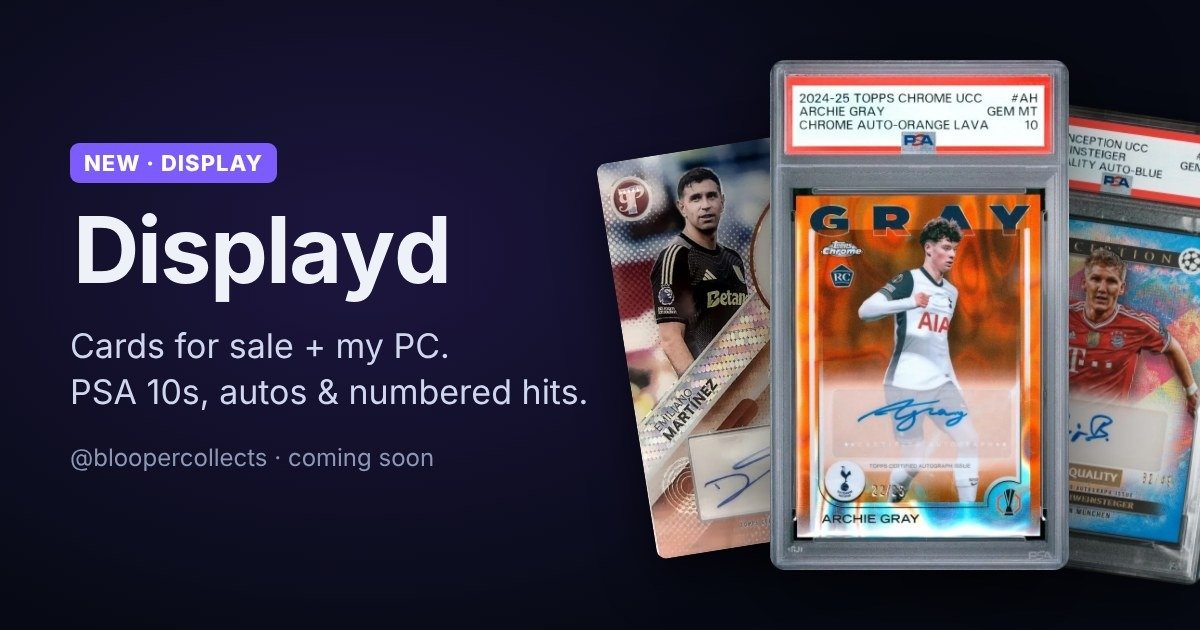
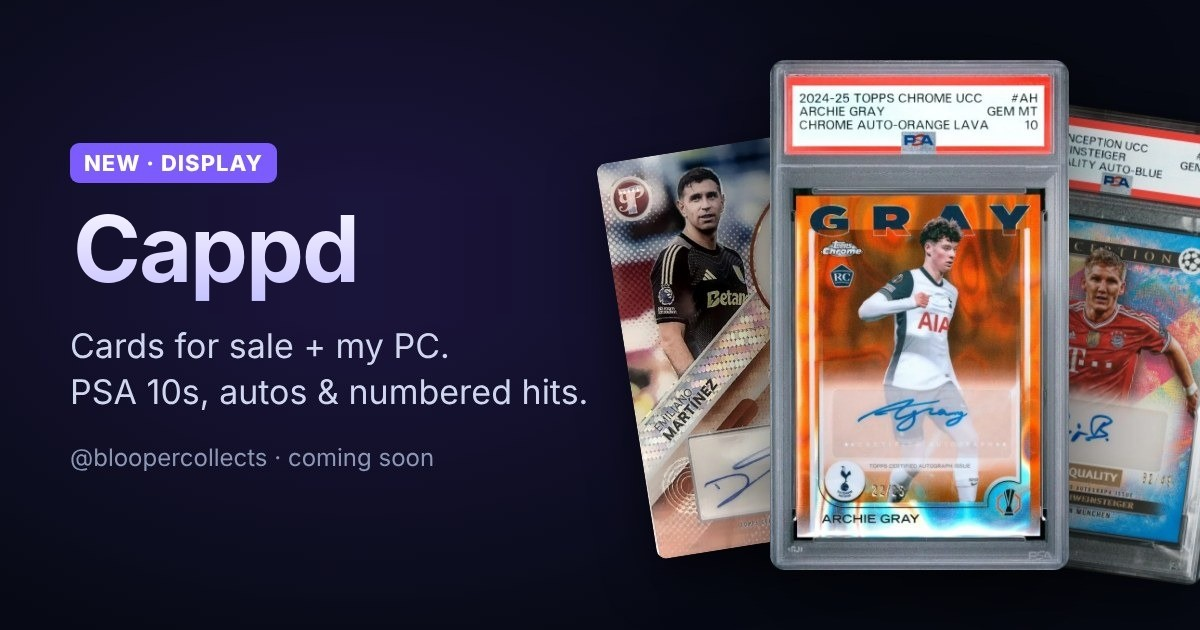
Rename the app to Cappd instead of Displayd
Updates the app header and title, manifest, Display preview copy,
share image (og.jpg?v=5), backup filename, news user agent and bot name.

Claude-Session: https://claude.ai/code/session_01XpW3N7LBjVj3PdNiB2B2FX

Changed region(s): [[0.0617, 0.3317, 0.37, 0.4825]]

diff --git a/display/index.html b/display/index.html
@@ -6,18 +6,18 @@
 <meta name="theme-color" content="#0b1020">
 <meta name="apple-mobile-web-app-capable" content="yes">
 <meta name="apple-mobile-web-app-status-bar-style" content="black-translucent">
-<title>Displayd · My cards</title>
-<meta name="description" content="A first look at Displayd, the card app I'm building: pick your cards and choose what to show in your display carousel.">
+<title>Cappd · My cards</title>
+<meta name="description" content="A first look at Cappd, the card app I'm building: pick your cards and choose what to show in your display carousel.">
 <meta property="og:type" content="website">
-<meta property="og:site_name" content="Displayd">
+<meta property="og:site_name" content="Cappd">
 <meta property="og:url" content="https://belipede.github.io/slabfolio-web/display/">
-<meta property="og:title" content="Displayd · My cards, for sale and PC">
-<meta property="og:description" content="Swipe my cards for sale and my PC. Displayd is coming soon.">
-<meta property="og:image" content="https://belipede.github.io/slabfolio-web/display/og.jpg?v=4">
+<meta property="og:title" content="Cappd · My cards, for sale and PC">
+<meta property="og:description" content="Swipe my cards for sale and my PC. Cappd is coming soon.">
+<meta property="og:image" content="https://belipede.github.io/slabfolio-web/display/og.jpg?v=5">
 <meta property="og:image:width" content="1200">
 <meta property="og:image:height" content="630">
 <meta name="twitter:card" content="summary_large_image">
-<meta name="twitter:image" content="https://belipede.github.io/slabfolio-web/display/og.jpg?v=4">
+<meta name="twitter:image" content="https://belipede.github.io/slabfolio-web/display/og.jpg?v=5">
 <link rel="apple-touch-icon" href="../apple-touch-icon.png">
 <link rel="icon" href="../icon-192.png">
 <style>
@@ -345,7 +345,7 @@ a{color:inherit}
 
     <div class="glance" id="glance"></div>
 
-    <button class="introbar" id="introBtn"><span class="new">NEW</span><span class="t">A first look at Displayd</span><span class="go">How it works ›</span></button>
+    <button class="introbar" id="introBtn"><span class="new">NEW</span><span class="t">A first look at Cappd</span><span class="go">How it works ›</span></button>
 
     <div class="segrow">
       <div class="seg" id="seg"><button data-f="sale">For sale</button><button data-f="pc">PC</button><button data-f="sold">Sold</button></div>
@@ -354,7 +354,7 @@ a{color:inherit}
     <div class="sorts" id="sorts"></div>
 
     <div class="pager" id="pager"></div><div class="feed" id="feed"></div><div class="grid" id="grid"></div><div class="thumbs" id="thumbs"></div><div class="hint" id="hint">Swipe for more cards · tap a card photo to flip it</div>
-    <div class="foot">Prices in SGD. To buy, DM @bloopercollects on Instagram or TikTok. Cards marked "In the post" arrive in December and are seller photos.<br><br>Displayd · preview build</div>
+    <div class="foot">Prices in SGD. To buy, DM @bloopercollects on Instagram or TikTok. Cards marked "In the post" arrive in December and are seller photos.<br><br>Cappd · preview build</div>
   </div>
 
   <!-- LOCKED (IN DEVELOPMENT) VIEW -->
@@ -362,10 +362,10 @@ a{color:inherit}
     <div class="lk-head"><span class="lk-pill">🔒 In development</span><h2 id="lkTitle">Home</h2><p id="lkText"></p></div>
     <div class="prev" id="lkPrev"></div>
     <div class="lockbadge"><svg viewBox="0 0 24 24" fill="none" stroke="currentColor" stroke-width="2.2" stroke-linecap="round" stroke-linejoin="round"><rect x="4" y="11" width="16" height="10" rx="2.5"/><path d="M8 11V7a4 4 0 0 1 8 0v4"/></svg></div>
-    <div class="lk-cta"><h3>Unlocks at launch</h3><p>Only Display is open in this preview. Join the launch list and you'll be first in when Displayd opens.</p>
+    <div class="lk-cta"><h3>Unlocks at launch</h3><p>Only Display is open in this preview. Join the launch list and you'll be first in when Cappd opens.</p>
       <button class="btn" data-wl>Join the launch list</button><button class="btn ghost" data-go="display">Back to Display</button></div>
     <div class="lk-feats" id="lkFeats"></div>
-    <div class="foot" style="margin-top:18px">Preview with sample numbers. Displayd · preview build</div>
+    <div class="foot" style="margin-top:18px">Preview with sample numbers. Cappd · preview build</div>
   </div>
 
   <!-- TAB BAR -->
@@ -406,7 +406,7 @@ a{color:inherit}
     <div class="grab"></div>
     <div class="sh-head"><span style="width:44px"></span><h3>What is Display?</h3><button class="nav-btn" id="abClose" style="font-weight:700">Close</button></div>
     <div class="sh-body">
-      <p><b>Displayd</b> is the card tracking app I'm building. It turns your collection into a page you can share with one link.</p>
+      <p><b>Cappd</b> is the card tracking app I'm building. It turns your collection into a page you can share with one link.</p>
       <ul>
         <li><i>🃏</i><span><b>Pick your cards.</b> Split them into For sale, PC and Sold.</span></li>
         <li><i>👁</i><span><b>Choose what shows.</b> Prices, descriptions and grading notes are yours to switch on or off. Tap <b>Edit</b> to try it.</span></li>
@@ -414,21 +414,21 @@ a{color:inherit}
         <li><i>🔗</i><span><b>Share any card.</b> Every card has its own link.</span></li>
       </ul>
       <div class="dm"><button class="btn" data-wl>Notify me at launch</button><a class="btn ghost" href="https://www.tiktok.com/@bloopercollects">Follow on TikTok</a></div>
-      <div class="note">Displayd isn't out yet. This page is a live preview using my own cards.</div>
+      <div class="note">Cappd isn't out yet. This page is a live preview using my own cards.</div>
     </div>
   </div>
   <div class="sheet" id="wl">
     <div class="grab"></div>
-    <div class="sh-head"><span style="width:44px"></span><h3>Get Displayd first</h3><button class="nav-btn" id="wlClose" style="font-weight:700">Close</button></div>
+    <div class="sh-head"><span style="width:44px"></span><h3>Get Cappd first</h3><button class="nav-btn" id="wlClose" style="font-weight:700">Close</button></div>
     <div class="sh-body">
       <div id="wlForm">
         <div class="wl-hero"><div class="ic">🔔</div><div><b>Be first in when it launches</b><small>One message on launch day, plus early access. No spam.</small></div></div>
         <label class="field"><span>Email or TikTok / IG handle</span><input id="wlIn" type="text" autocomplete="email" autocapitalize="off" spellcheck="false" placeholder="you@email.com or @yourhandle" maxlength="120"></label>
         <div class="field"><span>I mostly… (optional)</span><div class="picks" id="wlPick"><button data-v="Collect">Collect</button><button data-v="Flip">Flip</button><button data-v="Both">Both</button><button data-v="Just looking">Just looking</button></div></div>
         <div class="dm"><button class="btn" id="wlGo">Notify me</button></div>
-        <div class="note">Only used to tell you when Displayd launches. Never shared.</div>
+        <div class="note">Only used to tell you when Cappd launches. Never shared.</div>
       </div>
-      <div id="wlDone" class="wl-done" style="display:none"><div class="tick">✓</div><h4>You're on the list</h4><p>I'll message you the day Displayd launches. Follow along in the meantime.</p><a class="btn" href="https://www.tiktok.com/@bloopercollects">Follow on TikTok</a></div>
+      <div id="wlDone" class="wl-done" style="display:none"><div class="tick">✓</div><h4>You're on the list</h4><p>I'll message you the day Cappd launches. Follow along in the meantime.</p><a class="btn" href="https://www.tiktok.com/@bloopercollects">Follow on TikTok</a></div>
     </div>
   </div>
   <div class="bbar" id="bbar"><div class="bt" id="bbT"></div><button class="clr" id="bbClr">Clear</button><button class="btn" id="bbGo">Message</button></div>
@@ -560,7 +560,7 @@ $('#grid').addEventListener('click',e=>{const b=e.target.closest('[data-open]');
 /* share */
 const BASE=location.origin+location.pathname;
 async function share(id){const c=id&&CARDS.find(x=>x.id===id);const url=c?BASE+'?c='+id:BASE;
-  const d={title:c?c.name+' · Displayd':'Displayd · My cards',text:c?`${c.name}, ${shortSet(c)}${c.mode==='sale'&&c.ask?' · '+money(c.ask):''}`:'My cards on Displayd',url};
+  const d={title:c?c.name+' · Cappd':'Cappd · My cards',text:c?`${c.name}, ${shortSet(c)}${c.mode==='sale'&&c.ask?' · '+money(c.ask):''}`:'My cards on Cappd',url};
   if(navigator.share){try{await navigator.share(d);}catch(e){}return;}
   try{await navigator.clipboard.writeText(url);toast('Link copied');}catch(e){toast(url);}}
 $('#shareAll').onclick=()=>share();
@@ -622,10 +622,10 @@ let tt;function toast(m){const t=$('#toast');t.textContent=m;t.classList.add('on
 /* buy / offer */
 let buyC=null,buyK='buy';
 function buyMsg(){if(buyK==='bundle'){const l=bunList(),v=parseFloat($('#offerIn').value),t=bunTotal();
-    return `Hi! I'd like to bundle these from your Displayd page:\n`+l.map(c=>`• ${c.name} ${shortSet(c)}${c.ask?' ('+money(c.ask)+')':''}`).join('\n')+`\n`+(v>0?`Would you take ${money(v)} for the lot?`:(t?`Asking total ${money(t)}. `:'')+`Is everything still available?`);}
+    return `Hi! I'd like to bundle these from your Cappd page:\n`+l.map(c=>`• ${c.name} ${shortSet(c)}${c.ask?' ('+money(c.ask)+')':''}`).join('\n')+`\n`+(v>0?`Would you take ${money(v)} for the lot?`:(t?`Asking total ${money(t)}. `:'')+`Is everything still available?`);}
   const c=buyC;const name=`${c.name} ${c.set.split(' · ')[1]||c.set}`;
-  if(buyK==='buy')return `Hi! I'd like to buy your ${name} for ${money(c.ask)}. Seen on your Displayd page. Is it still available?`;
-  const v=parseFloat($('#offerIn').value);return `Hi! I saw your ${name} on your Displayd page. Would you take ${v>0?money(v):'S$__'} for it?`;}
+  if(buyK==='buy')return `Hi! I'd like to buy your ${name} for ${money(c.ask)}. Seen on your Cappd page. Is it still available?`;
+  const v=parseFloat($('#offerIn').value);return `Hi! I saw your ${name} on your Cappd page. Would you take ${v>0?money(v):'S$__'} for it?`;}
 function openBuy(id,k){buyK=k;if(k==='bundle'){const l=bunList();if(!l.length)return;buyC=l[0];$('#byTitle').textContent='Bundle';$('#byImg').src='img/'+buyC.photos[0]+'.webp';
     $('#byName').innerHTML=`${l.length} card${l.length>1?'s':''}<small>${bunTotal()?'Asking '+money(bunTotal())+' in total':'Make an offer'}</small>`;$('#offerIn').placeholder='Offer for the lot (optional)';}
   else{buyC=CARDS.find(c=>c.id===id);$('#byTitle').textContent=k==='buy'?'Buy':'Make an offer';$('#offerIn').placeholder='Your offer';

diff --git a/index.html b/index.html
@@ -6,9 +6,9 @@
 <meta name="apple-mobile-web-app-capable" content="yes">
 <meta name="apple-mobile-web-app-status-bar-style" content="black-translucent">
 <meta name="theme-color" content="#0b1020">
-<title>Displayd</title>
+<title>Cappd</title>
 <meta name="mobile-web-app-capable" content="yes">
-<meta name="apple-mobile-web-app-title" content="Displayd">
+<meta name="apple-mobile-web-app-title" content="Cappd">
 <link rel="apple-touch-icon" href="apple-touch-icon.png">
 <link rel="icon" type="image/png" href="icon-192.png">
 <link rel="manifest" href="manifest.webmanifest">
@@ -465,7 +465,7 @@ function shareUrl(r){
   const body = `**${c[1]}** · ${r.par} ${num}\n${short(s.name)} · ${g.n} · ${cardNo(g, c[0])}\n\n` +
     (r.link ? `Proof link: ${r.link}\n\n` : '') + (r.note ? `> ${r.note}\n\n` : '') +
     `### Photos\n${proof}\n\n_Drag your photos into this box, then tap Submit. A moderator adds the **verified** label once the proof checks out._\n\n` +
-    `<!-- slabfolio-find\n${JSON.stringify(data)}\n-->\n<sub>Shared from Displayd ${APP_VERSION}. Please leave the hidden block above as it is.</sub>`;
+    `<!-- slabfolio-find\n${JSON.stringify(data)}\n-->\n<sub>Shared from Cappd ${APP_VERSION}. Please leave the hidden block above as it is.</sub>`;
   return `https://github.com/${REPO}/issues/new?title=${encodeURIComponent(`Find: ${c[1]} ${r.par} ${num} (${short(s.name)})`)}&body=${encodeURIComponent(body)}`;
 }
 function badge(r){ return r.status === 'verified' ? `<span class="badge b-v">VERIFIED${r.auto ? ' · CERT' : ''}</span>` : r.status === 'pending' ? '<span class="badge b-p">PENDING</span>' : r.status === 'seen' ? '<span class="badge b-o">SEEN ON EBAY</span>' : `<span class="badge b-r">${r.fake ? 'FAKE' : 'REJECTED'}</span>`; }
@@ -565,7 +565,7 @@ function renderNews(){
     `<div class="sub" style="margin:16px 0 6px">Notable listings in your tracked sets</div>` + seenReports().map(itemHtml).join('');
   }
   const src = (NEWS.sources || []).join(', ');
-  return h + `<p class="sub">Headlines link to the publisher; Displayd never copies the article. Updated ${ago(NEWS.pulled) || esc(NEWS.pulled)}${src ? ' from ' + esc(src) : ''}. Refreshed every 6 hours.</p>`;
+  return h + `<p class="sub">Headlines link to the publisher; Cappd never copies the article. Updated ${ago(NEWS.pulled) || esc(NEWS.pulled)}${src ? ' from ' + esc(src) : ''}. Refreshed every 6 hours.</p>`;
 }
 function bindNews(a){
   a.querySelectorAll('[data-news]').forEach(el => el.onclick = () => { view.news = el.dataset.news; render(); });
@@ -722,7 +722,7 @@ function renderDash(){
   const news = forYou().slice(0, 3);
   const tb = Object.values(t.tones).reduce((a, b) => a + b, 0) || 1;
   const row = (c, right) => `<div class="crow" data-c="${esc(c.id)}"><div class="l"><div class="pl">${esc(c.player)}</div><div class="ds">${esc(cardLine(c))}</div></div><div class="r">${right}</div></div>`;
-  return `<header class="top"><h1>Displayd</h1><button class="mini" data-act="bug">Report a bug</button></header>
+  return `<header class="top"><h1>Cappd</h1><button class="mini" data-act="bug">Report a bug</button></header>
   ${S.sampleCards ? `<div class="banner">You're looking at a <b>sample collection</b> with made-up prices. Import your Cards v2 sheet from <b>Me</b> to see your own.</div>` : ''}
   <div class="prof"><div class="sub">Collection value</div><div class="big">${sgd(t.value)}</div>
   <div class="sub">${t.n} cards you own · paid ${sgd(t.paid)} · <span class="${diff > 5 ? 'g' : diff < -5 ? 'rd' : 'o'}">${diff >= 0 ? '+' : ''}${sgd(diff)}</span></div>
@@ -802,7 +802,7 @@ function openC(id, mode){
     <label class="f">Status</label><select class="inp" name="status">${['Held', 'PC', 'To list', 'Listed', 'Sealed', 'Sold'].map(s => `<option ${s === c.status ? 'selected' : ''}>${s}</option>`).join('')}</select>
     <label class="f">Grading</label><select class="inp" name="stage">${['Raw', 'To be graded', 'At grader', 'Graded'].map(s => `<option ${(c.stage || 'Raw').startsWith(s) ? 'selected' : ''}>${s}</option>`).join('')}</select><button class="btn">Save</button></form>`;
   else if (mode === 'caro') { const txt = `${c.player} ${c.desc}${c.serial ? ' ' + c.serial : ''}${c.grade && c.grade !== 'Raw' ? ' ' + c.grade : ''}\n${money(c.ask) !== null ? 'S$' + money(c.ask) + ' ' : ''}(price negotiable)\nCondition: as pictured. Card sleeved and toploaded.\nMeet-up or mailing available.`;
-    h += `<label class="f">Carousell listing text</label><textarea class="inp" id="caro" style="min-height:120px">${esc(txt)}</textarea><button class="btn" data-copy>Copy text</button><div class="hint">Paste it into Carousell with your photos. Displayd never posts for you.</div>`; }
+    h += `<label class="f">Carousell listing text</label><textarea class="inp" id="caro" style="min-height:120px">${esc(txt)}</textarea><button class="btn" data-copy>Copy text</button><div class="hint">Paste it into Carousell with your photos. Cappd never posts for you.</div>`; }
   else {
     h += owned(c) ? `<div class="btns"><button class="btn ghost" data-mode="sale">Add a sale you saw</button><button class="btn ghost" data-mode="sold">Mark sold</button></div>
     <div class="btns"><button class="btn ghost" data-mode="edit" style="margin-top:8px">Edit</button><button class="btn ghost" data-mode="caro" style="margin-top:8px">Sell on Carousell</button></div>` : `<button class="btn ghost" data-mode="edit">Edit</button>`;
@@ -909,7 +909,7 @@ function renderMe(){
   <div class="switch"><span>Moderator mode<br><span class="sub">Lets you verify reports on this phone. Shared finds are verified with labels on GitHub.</span></span><button class="tog ${S.mod ? 'on' : ''}" id="mod"></button></div>
   <div class="switch"><span>Sample pull reports<br><span class="sub">Fills the registry with marked sample data</span></span><button class="pill" id="sample">${S.sampleLoaded ? 'Remove' : 'Load'}</button></div>
   <div class="switch"><span>Start over<br><span class="sub">Deletes everything in this app. Export first.</span></span><button class="pill" id="clear">Delete</button></div></div>
-  <p class="sub">Displayd test build ${APP_VERSION}. Checklists from collectosk.com and cardsmithsbreaks.com. Not affiliated with Topps, Panini or the leagues. Values are estimates, not financial advice.</p>`;
+  <p class="sub">Cappd test build ${APP_VERSION}. Checklists from collectosk.com and cardsmithsbreaks.com. Not affiliated with Topps, Panini or the leagues. Values are estimates, not financial advice.</p>`;
 }
 
 // ---------- grading calculator ----------
@@ -953,8 +953,8 @@ function bindApp(a){
   const ex = $('#exp'); if (ex) ex.onclick = () => { view.exp = !view.exp; view.rest = false; render(); };
   const rs = $('#restore'); if (rs) rs.onclick = () => { view.rest = !view.rest; view.exp = false; render(); };
   const ce = $('#copyexp'); if (ce) ce.onclick = async () => { const ta = $('#expt'); try { await navigator.clipboard.writeText(ta.value); toast('Copied. Paste it somewhere safe, like Notes.'); } catch (e) { ta.select(); toast('Select all the text and copy it'); } };
-  const se = $('#saveexp'); if (se) se.onclick = () => { const b = new Blob([JSON.stringify(S)], { type: 'application/json' }), u = URL.createObjectURL(b), l = document.createElement('a'); l.href = u; l.download = `displayd-backup-${new Date().toISOString().slice(0, 10)}.json`; l.click(); setTimeout(() => URL.revokeObjectURL(u), 1000); };
-  const rg = $('#restgo'); if (rg) rg.onclick = () => { try { const d = JSON.parse($('#restt').value); if (!Array.isArray(d.cards) || !Array.isArray(d.reports)) throw 0; S = d; S.comps = S.comps || {}; S.invAdded = S.invAdded || {}; view.rest = false; save(); render(); toast('Backup restored'); } catch (e) { toast('That is not a Displayd export'); } };
+  const se = $('#saveexp'); if (se) se.onclick = () => { const b = new Blob([JSON.stringify(S)], { type: 'application/json' }), u = URL.createObjectURL(b), l = document.createElement('a'); l.href = u; l.download = `cappd-backup-${new Date().toISOString().slice(0, 10)}.json`; l.click(); setTimeout(() => URL.revokeObjectURL(u), 1000); };
+  const rg = $('#restgo'); if (rg) rg.onclick = () => { try { const d = JSON.parse($('#restt').value); if (!Array.isArray(d.cards) || !Array.isArray(d.reports)) throw 0; S = d; S.comps = S.comps || {}; S.invAdded = S.invAdded || {}; view.rest = false; save(); render(); toast('Backup restored'); } catch (e) { toast('That is not a Cappd export'); } };
   const cl = $('#clear'); if (cl) cl.onclick = () => { if (cl.dataset.armed){ localStorage.removeItem(KEY); location.hash = ''; location.reload(); } else { cl.dataset.armed = 1; cl.textContent = 'Tap again'; } };
 }
 

diff --git a/src/app.js b/src/app.js
@@ -318,7 +318,7 @@ function shareUrl(r){
   const body = `**${c[1]}** · ${r.par} ${num}\n${short(s.name)} · ${g.n} · ${cardNo(g, c[0])}\n\n` +
     (r.link ? `Proof link: ${r.link}\n\n` : '') + (r.note ? `> ${r.note}\n\n` : '') +
     `### Photos\n${proof}\n\n_Drag your photos into this box, then tap Submit. A moderator adds the **verified** label once the proof checks out._\n\n` +
-    `<!-- slabfolio-find\n${JSON.stringify(data)}\n-->\n<sub>Shared from Displayd ${APP_VERSION}. Please leave the hidden block above as it is.</sub>`;
+    `<!-- slabfolio-find\n${JSON.stringify(data)}\n-->\n<sub>Shared from Cappd ${APP_VERSION}. Please leave the hidden block above as it is.</sub>`;
   return `https://github.com/${REPO}/issues/new?title=${encodeURIComponent(`Find: ${c[1]} ${r.par} ${num} (${short(s.name)})`)}&body=${encodeURIComponent(body)}`;
 }
 function badge(r){ return r.status === 'verified' ? `<span class="badge b-v">VERIFIED${r.auto ? ' · CERT' : ''}</span>` : r.status === 'pending' ? '<span class="badge b-p">PENDING</span>' : r.status === 'seen' ? '<span class="badge b-o">SEEN ON EBAY</span>' : `<span class="badge b-r">${r.fake ? 'FAKE' : 'REJECTED'}</span>`; }
@@ -418,7 +418,7 @@ function renderNews(){
     `<div class="sub" style="margin:16px 0 6px">Notable listings in your tracked sets</div>` + seenReports().map(itemHtml).join('');
   }
   const src = (NEWS.sources || []).join(', ');
-  return h + `<p class="sub">Headlines link to the publisher; Displayd never copies the article. Updated ${ago(NEWS.pulled) || esc(NEWS.pulled)}${src ? ' from ' + esc(src) : ''}. Refreshed every 6 hours.</p>`;
+  return h + `<p class="sub">Headlines link to the publisher; Cappd never copies the article. Updated ${ago(NEWS.pulled) || esc(NEWS.pulled)}${src ? ' from ' + esc(src) : ''}. Refreshed every 6 hours.</p>`;
 }
 function bindNews(a){
   a.querySelectorAll('[data-news]').forEach(el => el.onclick = () => { view.news = el.dataset.news; render(); });
@@ -575,7 +575,7 @@ function renderDash(){
   const news = forYou().slice(0, 3);
   const tb = Object.values(t.tones).reduce((a, b) => a + b, 0) || 1;
   const row = (c, right) => `<div class="crow" data-c="${esc(c.id)}"><div class="l"><div class="pl">${esc(c.player)}</div><div class="ds">${esc(cardLine(c))}</div></div><div class="r">${right}</div></div>`;
-  return `<header class="top"><h1>Displayd</h1><button class="mini" data-act="bug">Report a bug</button></header>
+  return `<header class="top"><h1>Cappd</h1><button class="mini" data-act="bug">Report a bug</button></header>
   ${S.sampleCards ? `<div class="banner">You're looking at a <b>sample collection</b> with made-up prices. Import your Cards v2 sheet from <b>Me</b> to see your own.</div>` : ''}
   <div class="prof"><div class="sub">Collection value</div><div class="big">${sgd(t.value)}</div>
   <div class="sub">${t.n} cards you own · paid ${sgd(t.paid)} · <span class="${diff > 5 ? 'g' : diff < -5 ? 'rd' : 'o'}">${diff >= 0 ? '+' : ''}${sgd(diff)}</span></div>
@@ -655,7 +655,7 @@ function openC(id, mode){
     <label class="f">Status</label><select class="inp" name="status">${['Held', 'PC', 'To list', 'Listed', 'Sealed', 'Sold'].map(s => `<option ${s === c.status ? 'selected' : ''}>${s}</option>`).join('')}</select>
     <label class="f">Grading</label><select class="inp" name="stage">${['Raw', 'To be graded', 'At grader', 'Graded'].map(s => `<option ${(c.stage || 'Raw').startsWith(s) ? 'selected' : ''}>${s}</option>`).join('')}</select><button class="btn">Save</button></form>`;
   else if (mode === 'caro') { const txt = `${c.player} ${c.desc}${c.serial ? ' ' + c.serial : ''}${c.grade && c.grade !== 'Raw' ? ' ' + c.grade : ''}\n${money(c.ask) !== null ? 'S$' + money(c.ask) + ' ' : ''}(price negotiable)\nCondition: as pictured. Card sleeved and toploaded.\nMeet-up or mailing available.`;
-    h += `<label class="f">Carousell listing text</label><textarea class="inp" id="caro" style="min-height:120px">${esc(txt)}</textarea><button class="btn" data-copy>Copy text</button><div class="hint">Paste it into Carousell with your photos. Displayd never posts for you.</div>`; }
+    h += `<label class="f">Carousell listing text</label><textarea class="inp" id="caro" style="min-height:120px">${esc(txt)}</textarea><button class="btn" data-copy>Copy text</button><div class="hint">Paste it into Carousell with your photos. Cappd never posts for you.</div>`; }
   else {
     h += owned(c) ? `<div class="btns"><button class="btn ghost" data-mode="sale">Add a sale you saw</button><button class="btn ghost" data-mode="sold">Mark sold</button></div>
     <div class="btns"><button class="btn ghost" data-mode="edit" style="margin-top:8px">Edit</button><button class="btn ghost" data-mode="caro" style="margin-top:8px">Sell on Carousell</button></div>` : `<button class="btn ghost" data-mode="edit">Edit</button>`;
@@ -762,7 +762,7 @@ function renderMe(){
   <div class="switch"><span>Moderator mode<br><span class="sub">Lets you verify reports on this phone. Shared finds are verified with labels on GitHub.</span></span><button class="tog ${S.mod ? 'on' : ''}" id="mod"></button></div>
   <div class="switch"><span>Sample pull reports<br><span class="sub">Fills the registry with marked sample data</span></span><button class="pill" id="sample">${S.sampleLoaded ? 'Remove' : 'Load'}</button></div>
   <div class="switch"><span>Start over<br><span class="sub">Deletes everything in this app. Export first.</span></span><button class="pill" id="clear">Delete</button></div></div>
-  <p class="sub">Displayd test build ${APP_VERSION}. Checklists from collectosk.com and cardsmithsbreaks.com. Not affiliated with Topps, Panini or the leagues. Values are estimates, not financial advice.</p>`;
+  <p class="sub">Cappd test build ${APP_VERSION}. Checklists from collectosk.com and cardsmithsbreaks.com. Not affiliated with Topps, Panini or the leagues. Values are estimates, not financial advice.</p>`;
 }
 
 // ---------- grading calculator ----------
@@ -806,8 +806,8 @@ function bindApp(a){
   const ex = $('#exp'); if (ex) ex.onclick = () => { view.exp = !view.exp; view.rest = false; render(); };
   const rs = $('#restore'); if (rs) rs.onclick = () => { view.rest = !view.rest; view.exp = false; render(); };
   const ce = $('#copyexp'); if (ce) ce.onclick = async () => { const ta = $('#expt'); try { await navigator.clipboard.writeText(ta.value); toast('Copied. Paste it somewhere safe, like Notes.'); } catch (e) { ta.select(); toast('Select all the text and copy it'); } };
-  const se = $('#saveexp'); if (se) se.onclick = () => { const b = new Blob([JSON.stringify(S)], { type: 'application/json' }), u = URL.createObjectURL(b), l = document.createElement('a'); l.href = u; l.download = `displayd-backup-${new Date().toISOString().slice(0, 10)}.json`; l.click(); setTimeout(() => URL.revokeObjectURL(u), 1000); };
-  const rg = $('#restgo'); if (rg) rg.onclick = () => { try { const d = JSON.parse($('#restt').value); if (!Array.isArray(d.cards) || !Array.isArray(d.reports)) throw 0; S = d; S.comps = S.comps || {}; S.invAdded = S.invAdded || {}; view.rest = false; save(); render(); toast('Backup restored'); } catch (e) { toast('That is not a Displayd export'); } };
+  const se = $('#saveexp'); if (se) se.onclick = () => { const b = new Blob([JSON.stringify(S)], { type: 'application/json' }), u = URL.createObjectURL(b), l = document.createElement('a'); l.href = u; l.download = `cappd-backup-${new Date().toISOString().slice(0, 10)}.json`; l.click(); setTimeout(() => URL.revokeObjectURL(u), 1000); };
+  const rg = $('#restgo'); if (rg) rg.onclick = () => { try { const d = JSON.parse($('#restt').value); if (!Array.isArray(d.cards) || !Array.isArray(d.reports)) throw 0; S = d; S.comps = S.comps || {}; S.invAdded = S.invAdded || {}; view.rest = false; save(); render(); toast('Backup restored'); } catch (e) { toast('That is not a Cappd export'); } };
   const cl = $('#clear'); if (cl) cl.onclick = () => { if (cl.dataset.armed){ localStorage.removeItem(KEY); location.hash = ''; location.reload(); } else { cl.dataset.armed = 1; cl.textContent = 'Tap again'; } };
 }
 

diff --git a/src/head.html b/src/head.html
@@ -6,9 +6,9 @@
 <meta name="apple-mobile-web-app-capable" content="yes">
 <meta name="apple-mobile-web-app-status-bar-style" content="black-translucent">
 <meta name="theme-color" content="#0b1020">
-<title>Displayd</title>
+<title>Cappd</title>
 <meta name="mobile-web-app-capable" content="yes">
-<meta name="apple-mobile-web-app-title" content="Displayd">
+<meta name="apple-mobile-web-app-title" content="Cappd">
 <link rel="apple-touch-icon" href="apple-touch-icon.png">
 <link rel="icon" type="image/png" href="icon-192.png">
 <link rel="manifest" href="manifest.webmanifest">

diff --git a/scripts/update_news.py b/scripts/update_news.py
@@ -14,7 +14,7 @@ import xml.etree.ElementTree as ET
 ROOT = pathlib.Path(__file__).resolve().parent.parent
 OUT = ROOT / 'data' / 'news.json'
 FEEDS = json.loads((ROOT / 'data' / 'news-feeds.json').read_text())
-UA = 'DisplaydNews/0.2 (+https://github.com/belipede/slabfolio-web)'
+UA = 'CappdNews/0.2 (+https://github.com/belipede/slabfolio-web)'
 MAX_AGE_DAYS = 14
 MAX_FOOTBALL, MAX_CARDS = 400, 60
 

diff --git a/README.md b/README.md
@@ -1,10 +1,10 @@
-# Displayd web prototype
+# Cappd web prototype
 
-A one-page test version of Displayd (formerly Slabfolio) for trying on iPhone Safari. Published with GitHub Pages at https://belipede.github.io/slabfolio-web/.
+A one-page test version of Cappd (formerly Slabfolio) for trying on iPhone Safari. Published with GitHub Pages at https://belipede.github.io/slabfolio-web/.
 It opens with a sample collection; import your own sheet from Me. Your collection is stored only in the browser (localStorage); use Export in the app to back it up.
 Report bugs and ideas as issues.
 
-The app was renamed from Slabfolio to Displayd in November 2026. The repository name, the live URL, the saved-data key (`slabfolio-web-v1`) and the `slabfolio-find` marker in registry issues keep the old name on purpose, so existing installs, saved collections, bio links and shared finds keep working.
+The app was renamed from Slabfolio to Cappd in November 2026. The repository name, the live URL, the saved-data key (`slabfolio-web-v1`) and the `slabfolio-find` marker in registry issues keep the old name on purpose, so existing installs, saved collections, bio links and shared finds keep working.
 
 ## Editing the app
 
